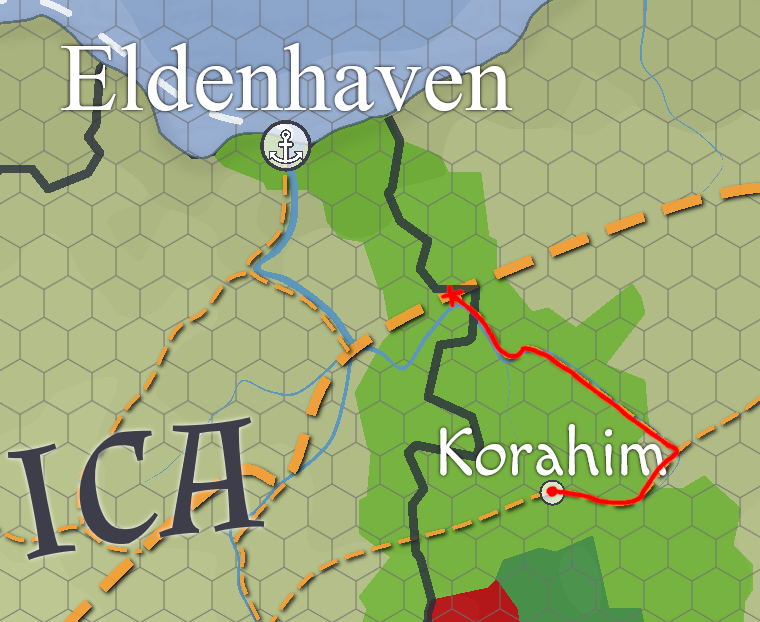
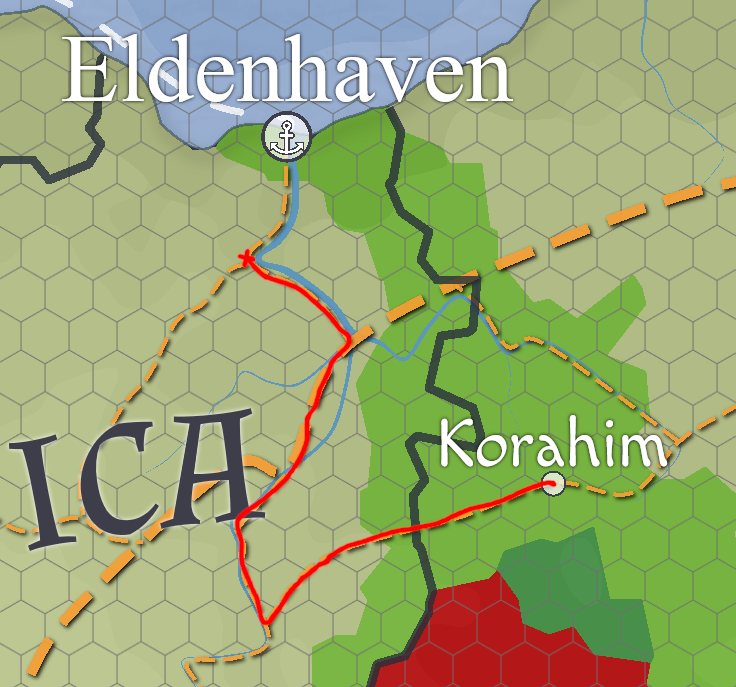
Touros Negros, Touros Negros de Oxford e pistas da Sessão 04

diff --git a/docs/Sessões/Sessão 04/Sessão 04.md b/docs/Sessões/Sessão 04/Sessão 04.md
@@ -8,10 +8,10 @@ Beleza, depois de um hiato por conta da universidade voltamos à ativa (que podi
 ## Notas adicionais
 Tudo que eles sabem dessa missão é que uma carroça desapareceu no caminho de [[Korahim]] para [[Eldenhaven]] no meio de uma tempestade suspeita que surgiu sem explicações em um lugar que não deveria.
 
-Minha ideia inicial era que uma gangue de bandidos tenha roubado uma mercadoria de minérios e pedras preciosas que ia para [[Eldenhaven]]. Essa gangue pode ter sido o [[bando de Oxford]], mas podem ser outras pessoas também. Uma gangue rival quem sabe?
+Minha ideia inicial era que uma gangue de bandidos tenha roubado uma mercadoria de minérios e pedras preciosas que ia para [[Eldenhaven]]. Essa gangue pode ter sido o [[Touros Negros de Oxford|bando de Oxford]], mas podem ser outras pessoas também. Uma gangue rival quem sabe?
 
 ## Acontecimentos da missão
-O [[bando de Oxford]] interceptou um carregamento de metais preciosos comprados por [[Eldenhaven]] para produzir armas, armaduras e vender o excesso. [[Edan]] foi o líder da missão e usou a magia [Nuvem Tempestuosa](https://eduardomarques.pythonanywhere.com/227) (com Magia Ampliada) para interceptar a carruagem e ocultar o que aconteceu.
+Os [[Touros Negros]] interceptaram um carregamento de metais preciosos comprados por [[Eldenhaven]] para produzir armas, armaduras e vender o excesso. Um feiticeiro do bando usou a magia [Nuvem Tempestuosa](https://eduardomarques.pythonanywhere.com/227) (com Magia Ampliada) para interceptar a carruagem e ocultar o que aconteceu.
 
 ![[local.png|Caminho percorrido pelo carregamento]]
 
@@ -21,7 +21,8 @@ O [[bando de Oxford]] interceptou um carregamento de metais preciosos comprados 
 1. O carregamento foi interceptado por uma tempestade misteriosa que surgiu repentinamente. Depois disso ninguém conseguiu enxergar direito por alguns segundos, apenas escutaram o som do carregamento sendo roubado por várias pessoas subindo na carruagem. Quando enxergaram novamente o carregamento inteiro já tinha sido roubado e não havia ninguém além do cocheiro e da escolta (um [[Sargento da Guarda (T20)|sargento]] e quatro [[Guarda de Cidade (T20)|guardas]]).
 
 ### Pistas
-As pistas são coisas que os jogadores podem procurar para descobrir o que aconteceu no saque do carregamento.
+Para procurar e descobrir o que aconteceu com o carregamento o grupo deve encontrar **rastros de carvão (Percepção 15)** deixados acidentalmente na fuga. Percebê-los vai mostrar que os ladrões fugiram na direção oeste. Os rastros só duram por um espaço no grid (8km), após isso devem ser feitos testes de Sobrevivência (CD 15) para rastreá-los para o próximo espaço.
 
-1. **Rastros de carvão (Percepção 15):** Rastros de carvão deixados acidentalmente na fuga. Percebê-los vai mostrar que os ladrões fugiram na direção noroeste. Os rastros só duram por um espaço no grid, após isso devem ser feitos testes de sobrevivência para rastrear
-2. 
+![[rastros.png|Rastros deixados pelos bandidos]]
+
+Caso o grupo falhe em encontrar os rastros eles devem esperar algum tempo e então serão atacados por [[Edan]], que estava rastreando [[Amna]] e [[Vectra]] por terem destruído e matado membros dos [[Touros Negros de Oxford]] ([[Sessão 02.2.md#Cena 3 - Ação|Sessão 02.2]]). Caso consigam convencê-lo, [[Edan]] pode ajudá-los à encontrar os [[Touros Negros]] rastreando-os.

diff --git a/docs/Personagens/Personagens Recorrentes/Edan/Edan.md b/docs/Personagens/Personagens Recorrentes/Edan/Edan.md
@@ -7,7 +7,7 @@ Um sulfure que nunca teve muitas oportunidades na vida, nem teve com quem contar
 
 Aos 17 anos [[Spinoff 01#História|a voz o disse que ele deveria ir para a Central]] ele obedeceu sem hesitar. Lá encontrou com [[Edan]] e [[Sett]], que também eram capazes de ouvir a voz, e juntos roubaram a [[Espada de Força Solar]] da [[Central/Igreja de Azgher]].
 
-A voz era [[Ostfer]], com um plano desconhecido para guardar [[Espada de Força Solar|a espada]] em um lugar seguro. Por ter sido usado por ela e estar completamente sozinho agora, Edan uniu forças com [[Oxford]] e se juntou à seu bando. Atualmente, 30 anos após o incidente com a espada, Edan trabalha como conselheiro de [[Oxford]], que agora é o líder do bando.
+A voz era [[Ostfer]], com um plano desconhecido para guardar [[Espada de Força Solar|a espada]] em um lugar seguro. Por ter sido usado por ela e estar completamente sozinho agora, Edan uniu forças com [[Oxford]] e se juntou à seu [[Touros Negros de Oxford|bando]]. Atualmente, 30 anos após o incidente com a espada, Edan trabalha como conselheiro de [[Oxford]], que agora é o líder do [[Touros Negros de Oxford|bando]].
 
 ## Ficha de Ameaça (Nível 13)
 Espírito Médio
@@ -82,13 +82,8 @@ Quando escala, não fica desprevenido e avança seu deslocamento normal.
 - [Aviso (p. 182)](https://eduardomarques.pythonanywhere.com/26/). Envia um alerta telepático para uma criatura.
 - [Criar Ilusão (p. 189)](https://eduardomarques.pythonanywhere.com/63/). Cria uma ilusão visual ou sonora.
 - [Escuridão (p. 193)](https://eduardomarques.pythonanywhere.com/85/). Objeto emana uma área de escuridão.
-- [Nuvem Tempestuosa (DB 182)](https://eduardomarques.pythonanywhere.com/227/). Você cria uma nuvem espessa carregada com eletricidade.
 - [Tranca Arcana (p. 209)](https://eduardomarques.pythonanywhere.com/186/). Tranca um item que possa ser aberto ou fechado.
 - [Vitalidade Fantasma (p. 211)](https://eduardomarques.pythonanywhere.com/197/). Você recebe pontos de vida temporários.
-
-#### Magia Ampliada (Aprimoramento +2 PM)
-Aumenta o alcance da magia em um passo (de curto para médio, de médio para longo) ou dobra
-a área de efeito da magia. Por exemplo, uma Bola de Fogo ampliada tem seu alcance aumentado para longo ou sua área aumentada para 12m de raio.
 
 #### Olhos nas Costas
 Você não pode ser flanqueado.

diff --git a/docs/Personagens/Personagens Recorrentes/Oxford/Oxford.md b/docs/Personagens/Personagens Recorrentes/Oxford/Oxford.md
@@ -5,9 +5,9 @@ tags:
 ## Backstory
 Um minotauro bruto e forte. Costuma ser compreensível, mas tem pavio curto para lidar com pessoas chatas ou particularmente irritantes.
 
-Quando jovem ouvia uma voz na sua cabeça que sempre o dizia quais escolhas certas fazer para sempre se dar bem na vida. Fazia parte de uma gangue de bandidos desde jovem e aos 17 anos [[Spinoff 01#História|a voz o disse que ele deveria ir para a Central]], onde roubou a [[Espada de Força Solar]] da [[Igreja de Azgher]], com a ajuda de [[Edan]] e [[Sett]], que também eram capazes de ouvir a voz.
+Quando jovem ouvia uma voz na sua cabeça que sempre o dizia quais escolhas certas fazer para sempre se dar bem na vida. Fazia parte de uma [[Touros Negros|gangue de bandidos]] desde jovem e aos 17 anos [[Spinoff 01#História|a voz o disse que ele deveria ir para a Central]], onde roubou a [[Espada de Força Solar]] da [[Igreja de Azgher]], com a ajuda de [[Edan]] e [[Sett]], que também eram capazes de ouvir a voz.
 
-A voz era [[Ostfer]], com um plano desconhecido para guardar [[Espada de Força Solar|a espada]] em um lugar seguro. Por ter sido usado por ela, acabou começando a detestá-la e apenas em vê-la é capaz de entrar em fúria completa. Hoje é o líder do [[bando de Oxford|grupo de bandidos]] que participava e tem [[Edan]] como concelheiro.
+A voz era [[Ostfer]], com um plano desconhecido para guardar [[Espada de Força Solar|a espada]] em um lugar seguro. Por ter sido usado por ela, acabou começando a detestá-la e apenas em vê-la é capaz de entrar em fúria completa. Hoje é o líder do [[Touros Negros de Oxford|grupo de bandidos]] que participava e tem [[Edan]] como concelheiro.
 
 ## Ficha de Ameaça (Nível 13)
 Humanoide (minotauro) Médio

diff --git a/docs/Sessões/Sessão 02/Sessão 02.2.md b/docs/Sessões/Sessão 02/Sessão 02.2.md
@@ -17,7 +17,7 @@ Pra essa sessão eu tô pensando em como eles vão conseguir o dinheiro, e minha
 ## Planejamento
 Ao chegar no seu acampamento para dormir, [[Ostfer]] irá aparecer flutuando de cabeça para baixo (porque por que não?) e os parabenizará por terem conseguido um ótimo cristal e irá pedir pra ver os cristais. Ao tocar em um deles de curiosidade irá causar um breve clarão de luz vermelha. Então o cristal ficará cinza e deixará de se mover. Pelos próximos dias eles sentirão um desconforto similar ao desconforto ao segurar o [[Cristal de Tormenta]], porém em todo o corpo e em grau bem menor. O desconforto varia a cada dia, mas num geral vai aumentando um pouco até eles chegarem nas [[Castelo de Malgrim|ruínas do castelo de Malgrim]], onde o desconforto some imediatamente e sem explicação.
 
-Depois disso ela falará com eles sobre a questão do dinheiro para o joalheiro. Ela vai dar a opção de assaltarem um acampamento de bandidos, que é um dos postos avançados do [[bando de Oxford]].
+Depois disso ela falará com eles sobre a questão do dinheiro para o joalheiro. Ela vai dar a opção de assaltarem um acampamento de bandidos, que é um dos postos avançados do [[Touros Negros de Oxford|bando de Oxford]].
 
 Essa sessão não tem muito o que fazer além de improvisar. Já que eu não sei bem o que eles vão fazer a melhor preparação que posso fazer é preparar o acampamento do [[Oxford]].
 

diff --git a/docs/Sessões/Sessão 03/Sessão 03.md b/docs/Sessões/Sessão 03/Sessão 03.md
@@ -31,7 +31,7 @@ Pra essa cena eu não quero que a [[Ostfer]] apareça em momento nenhum, apesar 
 Eu pensei em colocar eles encontrando o [[Crowhey Semore|Crowhey]] por aqui, mas com a equipe lascada não fica muito legal, já que eles tem que gastar dinheiro com as poções. [[Crowhey Semore|Crowhey]] ficará para um futuro próximo.
 
 ### Cena 2 - Na cidade
-Eu vou torcer pra eles irem pra [[Plenaflorum]]. Há algumas semanas a vila foi saqueada pelo [[bando de Oxford]], que não matou ninguém mas saqueou boa parte da cidade e por conta disso todos estão preocupados se acontecerá de novo. Eles podem conversar com os vilões para descobrir sobre o saque e tentar falar com a [[Família Plenaflorum]].
+Eu vou torcer pra eles irem pra [[Plenaflorum]]. Há algumas semanas a vila foi saqueada pelo [[Touros Negros de Oxford|bando de Oxford]], que não matou ninguém mas saqueou boa parte da cidade e por conta disso todos estão preocupados se acontecerá de novo. Eles podem conversar com os vilões para descobrir sobre o saque e tentar falar com a [[Família Plenaflorum]].
 
 ## Acontecimentos
 ### Cena 1 - [[Castelo de Malgrim]]

diff --git a/docs/Lugares/Plano Material/Terra do Crepúsculo.md b/docs/Lugares/Plano Material/Terra do Crepúsculo.md
@@ -4,4 +4,4 @@ tags:
 ---
 Um minúsculo planeta longínquo de [[Nyrule]]. Aqui, o ar é respirável e a gravidade é semelhante, mas sempre está de noite e não há lua no céu. Apesar disso tudo é perfeitamente claro como o dia, talvez pela enorme quantidade de estrelas no céu. Todo o planeta é uma grande planície da grama mais verde recoberta de pétalas de rosa vermelho-sangue.
 
-Um dos pontos principais desse lugar é que aqui o tempo corre diferente do tempo em [[Nyrule]]. É impreciso e variável, mas se passa aproximadamente um ano nyruelano a cada minuto que se passa na Terra do Crepúsculo.
+Um dos pontos principais desse lugar é que aqui o tempo corre diferente do tempo em [[Nyrule]]. É impreciso e variável, mas se passa aproximadamente um ano nyruleano a cada minuto que se passa na Terra do Crepúsculo.

diff --git a/docs/Facções/Touros Negros de Oxford/Touros Negros de Oxford.md b/docs/Facções/Touros Negros de Oxford/Touros Negros de Oxford.md
@@ -1,0 +1,11 @@
+---
+tags:
+  - Facção
+aliases:
+  - bando de Oxford
+---
+Uma ramificação dos [[Touros Negros]] criada por [[Oxford]] quando mais velho. Assim como eles, também não costumam se envolver em crimes especialmente violentos, dando preferência à roubos de mercadorias na estrada e carruagens de aventureiros e mercadores. São um bando bem menor que os [[Touros Negros]], apesar de aceitarem pessoas além de minotauros e minauros.
+
+Sua principal base fica ao norte da [[Ampáfica]], próximo da entrada do portal para a [[Terra do Crepúsculo]].
+
+Atualmente o líder, [[Oxford]], têm como conselheiro seu melhor amigo, [[Edan]].

diff --git a/docs/Facções/Touros Negros/Touros Negros.md b/docs/Facções/Touros Negros/Touros Negros.md
@@ -1,0 +1,7 @@
+---
+tags:
+  - Facção
+---
+Um grupo de bandidos formado apenas por minotauros e alguns minauros. Não costumam se envolver em crimes brutais, ganhando a vida apenas com roubos de mercadorias e viajantes e vendendo as no mercado negro para obter lucro.
+
+A base fica ao norte da [[Central]], escondidos ao longo do rio.

diff --git a/docs/Facções/Facções.md b/docs/Facções/Facções.md
@@ -1,0 +1,1 @@
+Facções são grupos de pessoas que agem em prol de um objetivo único. As facções dessa aba representam essas organizações.
